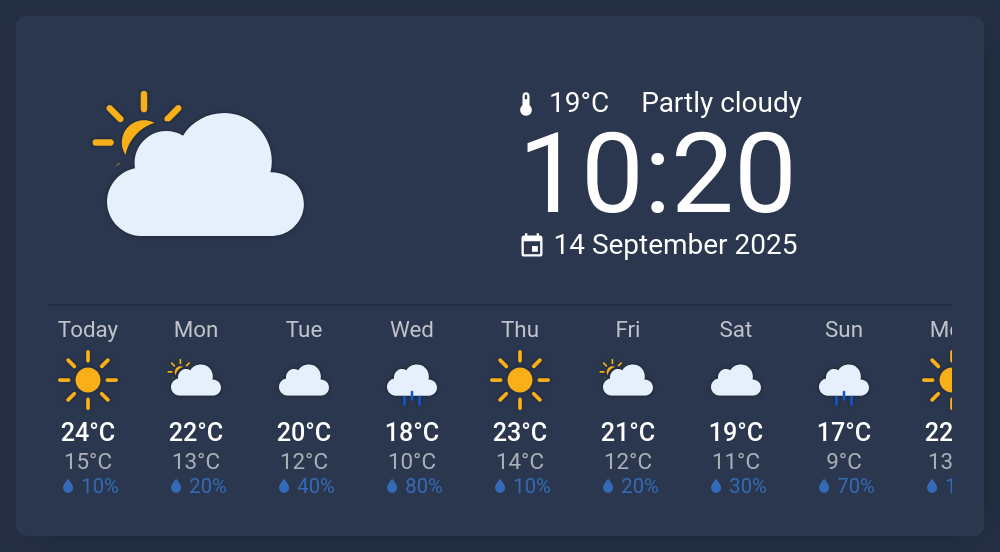
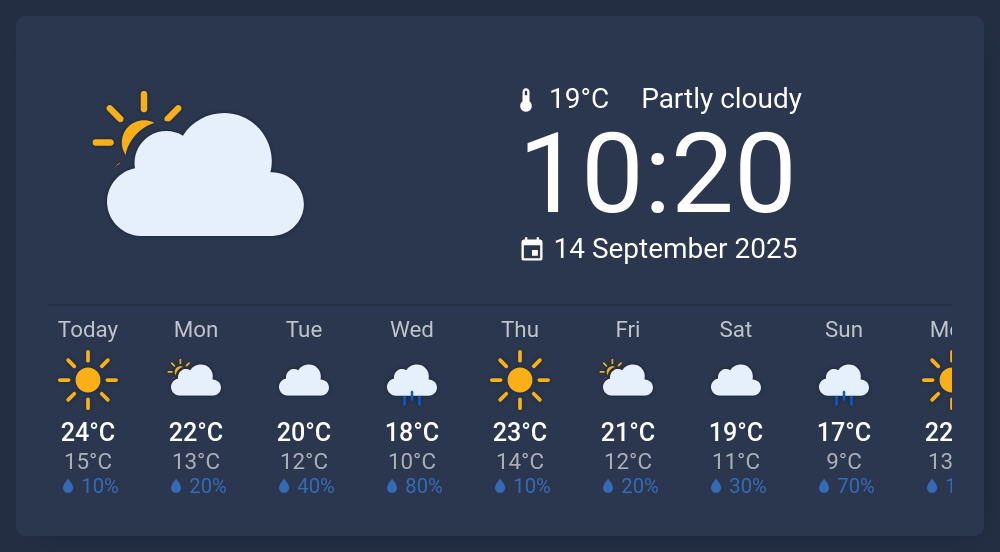
feat(header): add a gap between header rows (#780)

Changed region(s): [[0.527, 0.4004, 0.806, 0.4928], [0.527, 0.154, 0.806, 0.2156]]

diff --git a/e2e/config-options/sections/header/rows.spec.ts b/e2e/config-options/sections/header/rows.spec.ts
@@ -159,6 +159,17 @@ test.describe('sections.header.rows', () => {
       .toBeLessThan(0.5)
   })
 
+  test('separates consecutive rows by a gap', async ({ setupCard, clockWeatherCard }) => {
+    await setupCard({})
+
+    const rows = clockWeatherCard.locator('clock-weather-card-header-details-row')
+    const [first, second] = await Promise.all([rows.nth(0)
+      .boundingBox(), rows.nth(1)
+      .boundingBox()])
+    expect(second!.y - first!.y - first!.height)
+      .toBeCloseTo(2, 0)
+  })
+
   test('rejects an unknown row alignment', async ({ setupCard, cardErrorMessage }) => {
     await setupCard({ cardConfig: alignedRowConfig('middle') })
 

diff --git a/src/styles.ts b/src/styles.ts
@@ -42,6 +42,7 @@ export default css`
   clock-weather-card-header-details {
     display: flex;
     flex-direction: column;
+    row-gap: 2px;
     justify-self: center;
     min-width: 0;
     max-width: 100%;
